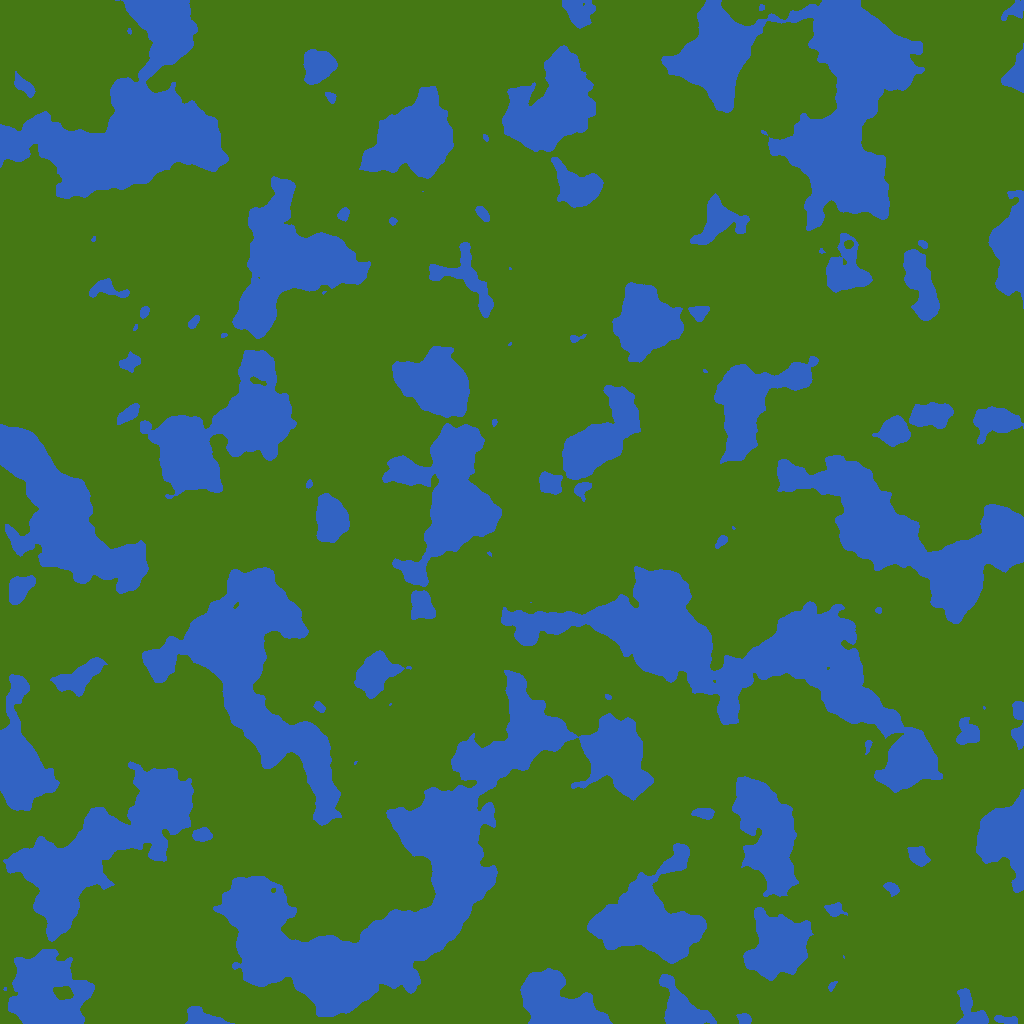
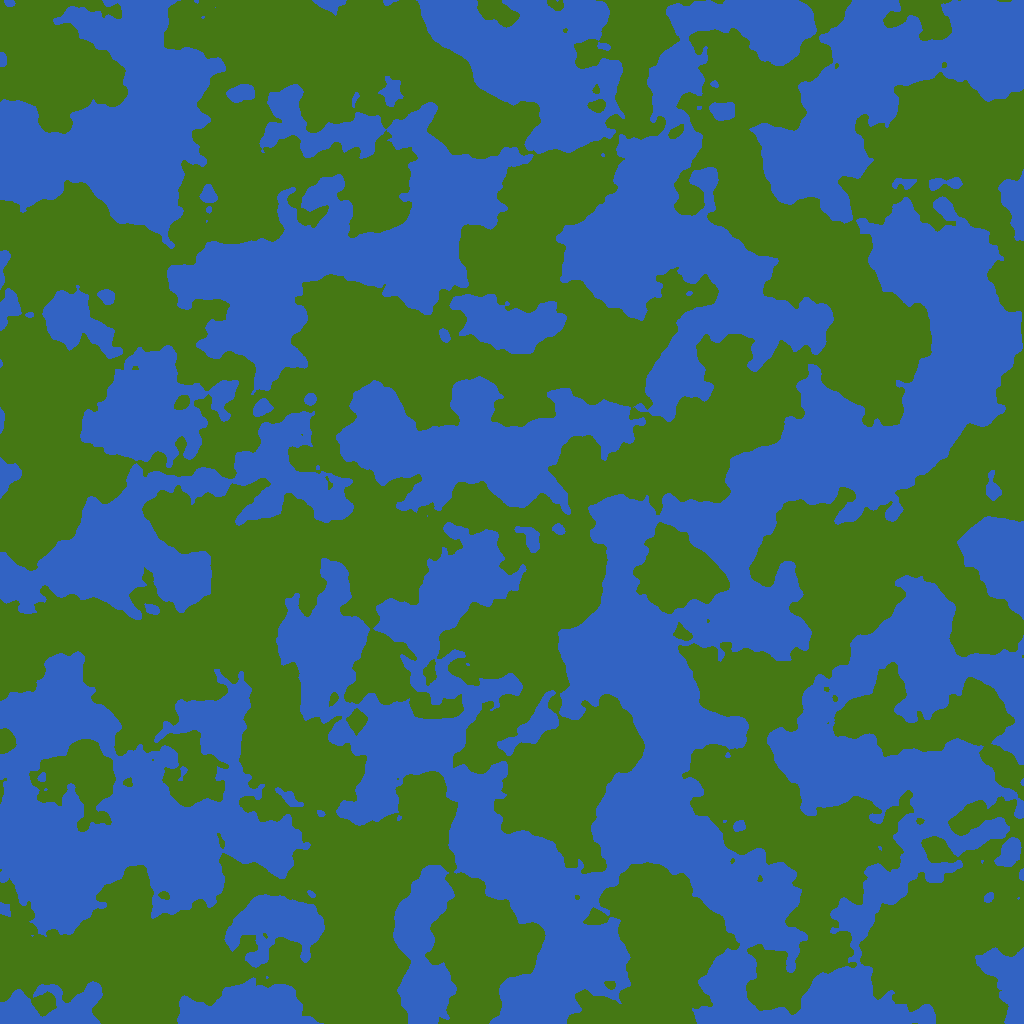
i will work more in 2 sek

diff --git a/src/world_gen/terrain/height_map.rs b/src/world_gen/terrain/height_map.rs
@@ -1,0 +1,76 @@
+use crate::world_gen::noise::noise_map::NoiseMap;
+
+pub type Height = i32;
+
+/// Bandaid fix, but some form of this should propably be used.
+/// 
+/// Need to implement a better version of this, but i like the idea of having this 'higher level' version of [`NoiseMap`] 
+/// making the noise values make sense as height measurements.
+/// 
+/// I also disslike the way i have been handling the ranges of [`TerrainType`](super::terrain_type::TerrainType)'s when they are floats, 
+/// so mapping them to integers also solves that.
+pub struct HeightMap {
+    height: usize,
+    width: usize,
+    values: Vec<Height>,
+}
+
+/// Methods for accessing data in the HeightMap.
+impl HeightMap {
+    fn index(&self, row: usize, column: usize) -> usize {
+        assert!(row < self.height);
+        assert!(column < self.width);
+    
+        row * self.width + column
+    }
+    
+    /// Returns the height value at the given position
+    pub fn get(&self, row: usize, column: usize) -> Height {
+        self.values[ self.index(row, column) ]
+    }
+
+    pub fn get_height(&self) -> usize {
+        self.height
+    }
+
+    pub fn get_width(&self) -> usize {
+        self.width
+    }
+}
+
+impl HeightMap {
+    fn from_size(height: usize, width: usize) -> HeightMap {
+        HeightMap {
+            height,
+            width,
+            values: Vec::with_capacity(height * width),
+        }
+    }
+
+
+    fn set(&mut self, index: usize, value: Height) {
+        assert!(index < self.height * self.width);
+
+        self.values[index] = value;
+    }
+
+    pub fn from_noise_map<F>(noise_map: &NoiseMap, mapper: F) -> Self 
+    where
+        F: Fn(f64) -> Height
+    {   
+        let mut height_map =
+            HeightMap::from_size(noise_map.get_height(), noise_map.get_width());
+        
+        for column in 0..height_map.width {
+            for row in 0..height_map.height {
+                let noise_val = noise_map.get_value(row, column);
+                let height = mapper(noise_val);
+
+                height_map
+                    .values
+                    .push(height);
+            }
+        }
+        height_map
+    }
+}

diff --git a/src/world_gen.rs b/src/world_gen.rs
@@ -9,14 +9,19 @@ use rand_seeder::{Seeder, SipHasher};   // Seeder is not cryptographically safe,
 use rand_pcg::Pcg64;
 
 use self::noise::noise_map::{self, NoiseMap};
+use self::terrain::height_map::HeightMap;
 use self::terrain::texture::{self, texture_from_noise_map};
+use noise_consts::*;
 
-const DEFAULT_SEED: u32 = 0x5EED;
-
-const SCALE: usize = 100;
-const OCTAVES: usize = 1;
-const LACUNARITY: f64 = 2.0;
-const PERSISTANCE: f64 = 0.5;
+/// Constants relevant to generating noise
+mod noise_consts{
+    pub const DEFAULT_SEED: u32 = 0x5EED;
+    
+    pub const SCALE: usize = 100;
+    pub const OCTAVES: usize = 1;
+    pub const LACUNARITY: f64 = 2.0;
+    pub const PERSISTANCE: f64 = 0.5;
+}
 
 /// Creates 4 images representing a NoiseMap
 pub fn noisemap_demo(
@@ -69,7 +74,7 @@ pub fn texture_demo(
     lacunarity: f64,
     persistance: f64,
     version: &str,
-) {
+) -> () {
     let perlin = Perlin::new();
     perlin.set_seed(DEFAULT_SEED);
 
@@ -96,6 +101,13 @@ pub fn texture_demo(
         lac_fmt,
         per_fmt
     );
+
+    // Noise values are mapped from [0.0; 1.0] to [0; 100]
+    let height_mapper = | val: f64 | -> i32 {
+        (val * 100.0).round() as i32
+    };
+
+    let h_map = HeightMap::from_noise_map(&n_map, height_mapper);
     
-    texture_from_noise_map(n_map, &filename);
+    texture_from_noise_map(h_map, &filename);
 }

diff --git a/src/world_gen/terrain/terrain_type.rs b/src/world_gen/terrain/terrain_type.rs
@@ -7,7 +7,7 @@ use image::Rgb;
 use terrain_data::meta_data as meta_data;
 
 /// The type of the height value
-type Height = f64;
+use super::height_map::Height;
 
 /// All different types of terrain.
 /// 
@@ -150,22 +150,22 @@ mod terrain_data {
         use super::super::{Height};
         
         /// The smallest, valid, value for the range of a terrain type
-        pub const MIN_VALUE: Height = -1.0;
+        pub const MIN_VALUE: Height = 0;
 
         /// The largest, valid, value for the range of a terrain type
-        pub const MAX_VALUE: Height =  1.0;
+        pub const MAX_VALUE: Height =  100;
     }
 
 
     /// Women when they see me
     pub const OCEAN: TypeData<Range<Height>> = TypeData {
-        range:  MIN_VALUE..0.4,
+        range:  MIN_VALUE..50,
         colour: Rgb([ 50,  99, 195]),
     };
 
     /// Women when i talk to them :(
     pub const LAND: TypeData<RangeInclusive<Height>> = TypeData {
-        range:  0.4..=MAX_VALUE,
+        range:  50..=MAX_VALUE,
         colour: Rgb([ 69, 120,  20]),
     };
 }

diff --git a/src/world_gen/noise/noise_map.rs b/src/world_gen/noise/noise_map.rs
@@ -1,7 +1,9 @@
-use image::{ImageFormat, ImageResult};
+use std::ops::Deref;
+
+use image::ImageResult;
 use noise::NoiseFn;
 use rand::prelude::*;
-use rand_seeder::{Seeder, SipHasher};   // Seeder is not cryptographically safe, but that does not matter for us
+use rand_seeder::Seeder;   // Seeder is not cryptographically safe, but that does not matter for us
 use rand_pcg::Pcg64;
 
 pub const DEFAULT_SCALE: usize = 100;
@@ -153,11 +155,7 @@ impl NoiseMap {
     /// Returns the actual index of the given row, column.
     /// 
     /// Uses a single vec as it is faster and easier to create a buffer from.
-    /// 
-    /// # Panics
-    /// Panics if the NoiseMap is empty
     fn index(&self, row: usize, column: usize) -> usize {
-        assert!(!self.values.is_empty());
         row * self.width + column
     }
 

diff --git a/src/world_gen/terrain/texture.rs b/src/world_gen/terrain/texture.rs
@@ -5,18 +5,20 @@ use image::{
 };
 use crate::world_gen::{noise::noise_map::NoiseMap, terrain::terrain_type::TerrainType};
 
+use super::height_map::HeightMap;
+
 pub fn texture_from_noise_map(
-    noise_map: NoiseMap,
+    height_map: HeightMap,
     filename: &str,
 ) {
     let img 
         = ImageBuffer::from_fn(
-            noise_map.get_width() as u32,
-            noise_map.get_height() as u32,
+            height_map.get_width() as u32,
+            height_map.get_height() as u32,
             |x, y| {
                 let terrain = 
                     TerrainType::ident(
-                        &noise_map.get_value(x as usize, y as usize)
+                        &height_map.get(x as usize, y as usize)
                     );
                 terrain.colour()
         });

diff --git a/src/world_gen/terrain.rs b/src/world_gen/terrain.rs
@@ -1,2 +1,3 @@
 pub mod texture;
 pub mod terrain_type;
+pub mod height_map;
